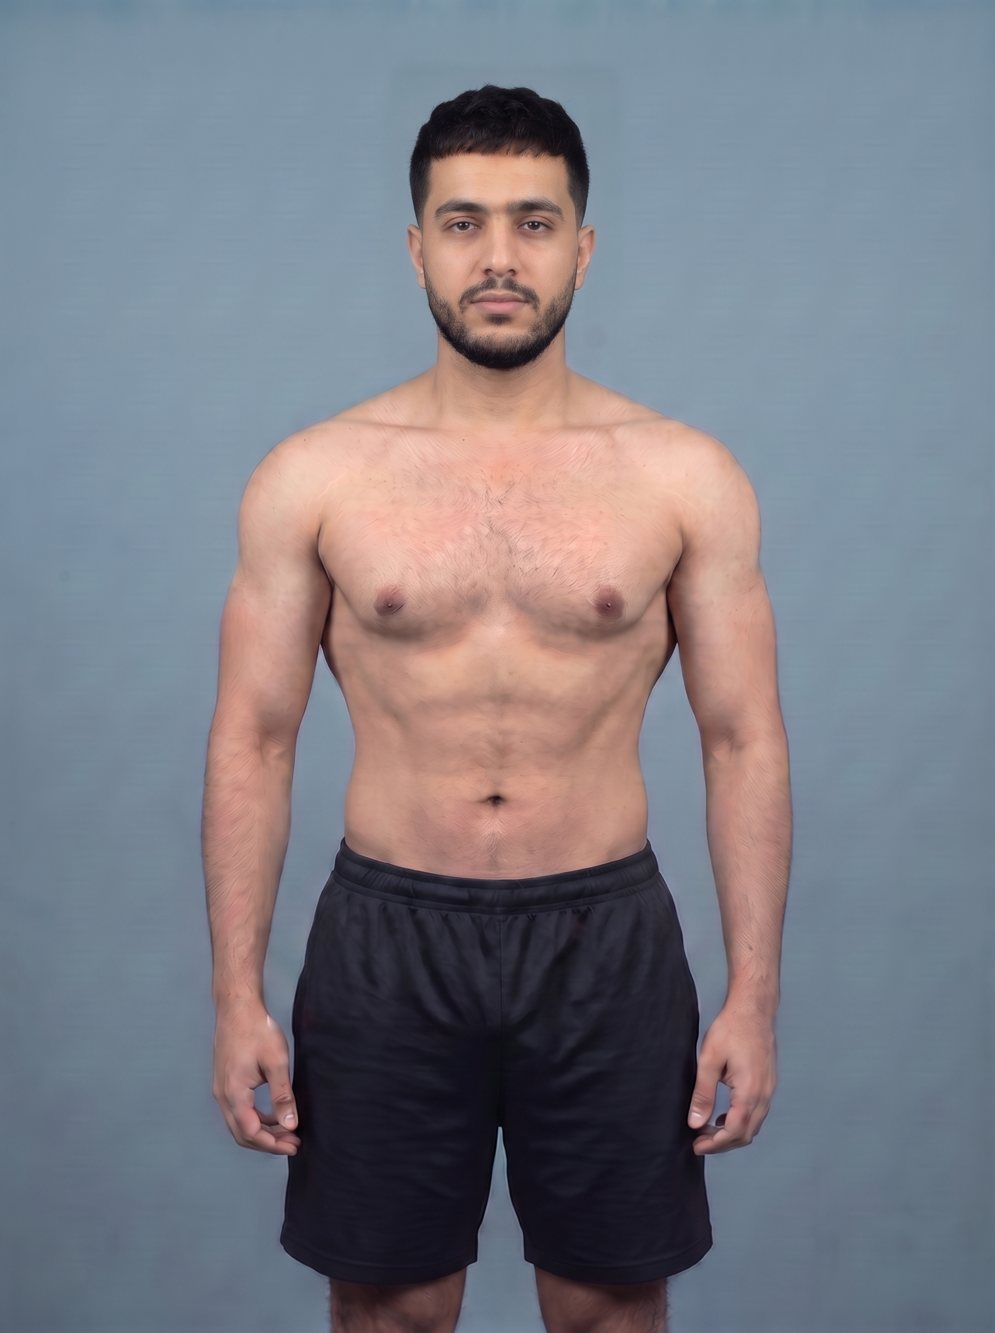
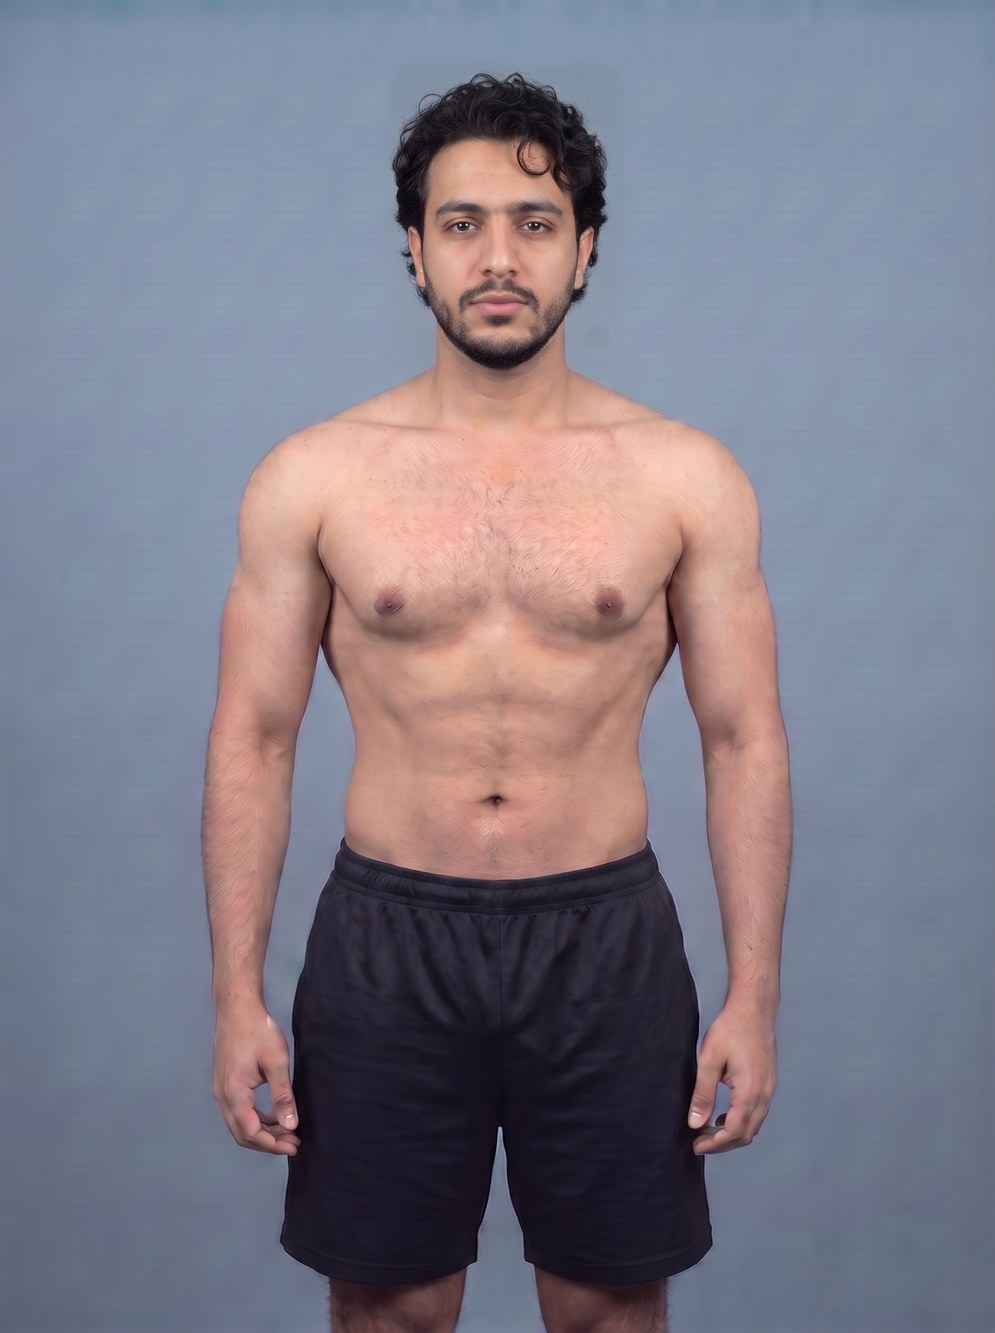
Medium curls + faded Italian beard; texture-aware fit, reviewer pick
- Library: 'Medium curls · subtle taper' and 'Faded Italian beard'
- rankHair: bonus for cuts built around the person's natural texture,
  penalty for cuts that need blow-drying; rebalanced side vs fringe weights
- Scan.stylePick lets the reviewer choose among close-scoring styles;
  plan text says when a pick is the reviewer's
- Sample after (face + body) regenerated from the original baseline;
  realism check passes (jaw -1.0%, nose -2.4%, eyes -1.6%)

Claude-Session: https://claude.ai/code/session_01YK5LfND9fHzJNnxfHhhsd1

Changed region(s): [[0.3739, 0.0308, 0.6231, 0.2768]]

diff --git a/app/src/lib/styles.ts b/app/src/lib/styles.ts
@@ -55,6 +55,8 @@ export interface HairStyle {
   prompt: string; // image-model description (no identity changes)
   /** visual effect on face proportions, -1..1 */
   fx: { height: number; sides: number; fringe: number };
+  /** natural textures this cut is built around (no daily blow-drying to fight it) */
+  worksWith: HairType[];
 }
 
 export const HAIRSTYLES: HairStyle[] = [
@@ -71,7 +73,8 @@ export const HAIRSTYLES: HairStyle[] = [
     barber: "Low taper, softly blended (no harsh skin line). 4–5 cm on top, point-cut for choppy texture, short textured fringe. Matte clay.",
     prompt:
       "2026 textured crop with a soft low taper fade: sides softly blended (no harsh skin line), 4-5 cm of choppy, piece-y matte texture on top pushed slightly forward into a short, uneven textured fringe, natural matte clay finish, no shine, no tall quiff",
-    fx: { height: 0, sides: 0.3, fringe: 0.7 }
+    fx: { height: 0, sides: 0.3, fringe: 0.7 },
+    worksWith: ["straight", "wavy"]
   },
   {
     id: "french-crop-mid-taper",
@@ -86,7 +89,8 @@ export const HAIRSTYLES: HairStyle[] = [
     barber: "Soft mid taper, 3–4 cm on top brushed forward, short blunt-textured fringe.",
     prompt:
       "2026 French crop with a soft mid taper: sides softly blended, short textured top 3-4 cm brushed forward into a short blunt-textured fringe, matte natural finish",
-    fx: { height: -0.3, sides: 0.1, fringe: 1 }
+    fx: { height: -0.3, sides: 0.1, fringe: 1 },
+    worksWith: ["straight"]
   },
   {
     id: "curly-crop-taper",
@@ -100,7 +104,24 @@ export const HAIRSTYLES: HairStyle[] = [
     maintenanceWeeks: 3,
     barber: "Low or mid taper, keep 5–7 cm of curl on top, shape the curls round, light fringe.",
     prompt: "2026 curly crop: low taper fade, defined natural curls 5-7 cm on top shaped round with a light curly fringe, curl cream, matte",
-    fx: { height: 0.4, sides: 0.2, fringe: 0.5 }
+    fx: { height: 0.4, sides: 0.2, fringe: 0.5 },
+    worksWith: ["curly", "coily"]
+  },
+  {
+    id: "medium-curls-subtle-taper",
+    name: "Medium curls · subtle taper",
+    status: "trending",
+    gender: "male",
+    hairTypes: ["wavy", "curly"],
+    faceShapes: ["Oval", "Oblong", "Diamond", "Heart", "Square"],
+    topCm: [7, 10],
+    heatFriendly: false,
+    maintenanceWeeks: 5,
+    barber: "Keep 7–9 cm of curl on top, scissor-cut sides left with some length over the ears, only a subtle low taper at the sideburns and nape (no skin). Cut curls dry, curl cream, no gel.",
+    prompt:
+      "medium-length slightly curly hair: about 7-9 cm on top of loose, soft natural curls and waves with real volume and movement, swept loosely back and to the side with a few curls falling onto the upper forehead, natural matte finish, not slick; sides kept fuller with only a subtle low taper at the sideburns and the neckline (no skin, no visible fade line), slightly longer over the ears",
+    fx: { height: 0.2, sides: 0.7, fringe: 0.5 },
+    worksWith: ["wavy", "curly"]
   },
   {
     id: "middle-part-flow",
@@ -114,7 +135,8 @@ export const HAIRSTYLES: HairStyle[] = [
     maintenanceWeeks: 6,
     barber: "Grow to 10–15 cm, soft middle part, light layers, scissor-cut sides tucked behind the ears.",
     prompt: "2026 middle-part flow: 10-15 cm of soft layered hair parted in the middle, falling as curtains to the temples, sides tucked behind the ears, natural texture, matte",
-    fx: { height: -0.2, sides: 0.8, fringe: 0.4 }
+    fx: { height: -0.2, sides: 0.8, fringe: 0.4 },
+    worksWith: ["straight", "wavy"]
   },
   {
     id: "buzz-cut-soft-fade",
@@ -128,7 +150,8 @@ export const HAIRSTYLES: HairStyle[] = [
     maintenanceWeeks: 2,
     barber: "Guard #2–3 on top, soft fade to #1 on the sides, shaped hairline.",
     prompt: "2026 buzz cut: even #3 guard length on top with a soft blended fade on the sides, natural hairline",
-    fx: { height: -0.5, sides: -0.6, fringe: 0 }
+    fx: { height: -0.5, sides: -0.6, fringe: 0 },
+    worksWith: ["straight", "wavy", "curly", "coily"]
   },
   {
     id: "messy-quiff",
@@ -142,7 +165,8 @@ export const HAIRSTYLES: HairStyle[] = [
     maintenanceWeeks: 4,
     barber: "Low taper, 6–8 cm on top, textured — styled up loosely, not slick.",
     prompt: "soft messy quiff: low taper, 6-8 cm textured top lifted loosely at the front, matte, not slick or glossy",
-    fx: { height: 0.8, sides: -0.2, fringe: -0.5 }
+    fx: { height: 0.8, sides: -0.2, fringe: -0.5 },
+    worksWith: ["straight", "wavy"]
   },
   {
     id: "glossy-pompadour",
@@ -156,7 +180,8 @@ export const HAIRSTYLES: HairStyle[] = [
     maintenanceWeeks: 4,
     barber: "—",
     prompt: "",
-    fx: { height: 1, sides: -0.4, fringe: -1 }
+    fx: { height: 1, sides: -0.4, fringe: -1 },
+    worksWith: ["straight"]
   },
 ];
 
@@ -171,6 +196,14 @@ export interface BeardStyle {
 }
 
 export const BEARDS: BeardStyle[] = [
+  {
+    id: "faded-italian",
+    name: "Faded Italian beard",
+    status: "trending",
+    needsDensity: "medium",
+    prompt: "Italian-style faded beard: short full beard about 6-10 mm, dense on the chin, moustache and along the jaw, cheeks kept low and natural, fading down shorter into the sideburns so it blends into the hair, connected moustache, clean neckline one finger above the Adam's apple",
+    fx: { chin: 0, sides: 0.3, jaw: 0.9, chinWidth: 0.4 },
+  },
   {
     id: "chin-forward-boxed",
     name: "Boxed beard · longer chin",
@@ -272,8 +305,8 @@ export function rankHair(intake: Intake, face: FaceResult | null): Ranked<HairSt
       if (n) {
         // wide face → height lengthens, side volume widens; long face → the reverse
         const h = s.fx.height * n.width * 10;
-        const sd = -s.fx.sides * n.width * 8;
-        const fr = s.fx.fringe * (Math.max(0, n.foreheadWide) + Math.max(0, -n.width)) * 7;
+        const sd = -s.fx.sides * n.width * 10;
+        const fr = s.fx.fringe * (Math.max(0, n.foreheadWide) + Math.max(0, -n.width)) * 5;
         fit += h + sd + fr;
         if (h > 3) reasons.push(s.fx.height > 0 ? "height on top lengthens a wider face" : "staying low on top avoids lengthening a long face");
         if (h < -3) reasons.push(s.fx.height > 0 ? "adds height, which would lengthen an already long face" : "no height on top, so a wide face can read wider");
@@ -281,6 +314,14 @@ export function rankHair(intake: Intake, face: FaceResult | null): Ranked<HairSt
         if (sd < -3) reasons.push(s.fx.sides > 0 ? "side volume would widen a wide face" : "very tight sides narrow an already narrow face");
         if (fr > 3) reasons.push(n.foreheadWide > 0.5 ? "a forward fringe balances a wider forehead and shortens the face visually" : "a forward fringe shortens the face visually");
         if (fr < -3) reasons.push("swept-back styles expose and lengthen the forehead");
+      }
+      // working with natural texture: the cut holds in heat/humidity without daily heat styling
+      if (s.worksWith.includes(intake.hairType)) {
+        fit += 5;
+        if (intake.hairType !== "straight") reasons.push(`built around your natural ${intake.hairType === "wavy" ? "wave" : "curl"} — no daily blow-drying`);
+      } else {
+        fit -= 3;
+        reasons.push(`needs blow-drying to fight your natural ${intake.hairType === "wavy" ? "wave" : "curl"}`);
       }
       if (s.heatFriendly) fit += 4;
       if (s.status === "trending") fit += 4;
@@ -330,4 +371,11 @@ export function suggestHair(intake: Intake, face: FaceResult | null, n = 3): Hai
 
 export function suggestBeard(intake: Intake, face: FaceResult | null = null): BeardStyle | null {
   return rankBeard(intake, face)[0]?.item ?? null;
+}
+
+/** Put the reviewer's pick first (if it is in the library and allowed for this person); fit order otherwise. */
+export function withReview<T extends { id: string }>(ranked: Ranked<T>[], id?: string): { list: Ranked<T>[]; reviewed: boolean } {
+  const i = id ? ranked.findIndex((r) => r.item.id === id) : -1;
+  if (i <= 0) return { list: ranked, reviewed: i === 0 };
+  return { list: [ranked[i], ...ranked.slice(0, i), ...ranked.slice(i + 1)], reviewed: true };
 }

diff --git a/app/src/lib/plan.ts b/app/src/lib/plan.ts
@@ -1,4 +1,4 @@
-import { REVIEWED_AT, faceNeeds, rankBeard, rankHair } from "./styles";
+import { REVIEWED_AT, faceNeeds, rankBeard, rankHair, withReview } from "./styles";
 import type { Intake, Scan } from "./types";
 import type { EvidenceGrade } from "./science";
 import { MODIFIABLE, currentScores, overall, regionOf, type ScoreKey } from "./report";
@@ -455,7 +455,8 @@ export function buildPlan(scan: Scan, intake: Intake): Plan {
   });
   if (male) {
     const patchy = intake.facialHair === "patchy";
-    const [beardPick, ...beardAlts] = rankBeard(intake, face ?? null).slice(0, 3);
+    const beardRev = withReview(rankBeard(intake, face ?? null), scan.stylePick?.beard);
+    const [beardPick, ...beardAlts] = beardRev.list.slice(0, 3);
     const needs = faceNeeds(face ?? null);
     items.push({
       id: "beard",
@@ -463,7 +464,7 @@ export function buildPlan(scan: Scan, intake: Intake): Plan {
       title: beardPick ? `Beard: ${beardPick.item.name}` : patchy ? "Even heavy stubble with a defined neckline" : "Groomed heavy stubble or short beard",
       why: [
         beardPick
-          ? `Chosen for your face${needs?.notes.length ? ` (${needs.notes.join("; ")})` : ""}: ${beardPick.reasons.filter((r) => !/needs denser/.test(r)).join("; ") || "balanced proportions suit most beard shapes"}.`
+          ? `${beardRev.reviewed ? "Reviewer's pick, f" : "F"}itted to your face${needs?.notes.length ? ` (${needs.notes.join("; ")})` : ""}: ${beardPick.reasons.filter((r) => !/needs denser/.test(r)).join("; ") || "balanced proportions suit most beard shapes"}.`
           : "",
         "Groomed facial hair changes how the face reads: heavy stubble was rated most attractive and full beards most masculine in a large rating study; a clean lower line sharpens the visible jaw.",
         beardPick?.reasons.some((r) => /needs denser/.test(r)) ? "Your current growth is patchy — expect 3–6 months of growth (optionally minoxidil, discuss with a doctor) to reach full coverage." : "",
@@ -513,7 +514,8 @@ export function buildPlan(scan: Scan, intake: Intake): Plan {
   /* ------------------------------ Hair ------------------------------ */
   const reach = intake.hairLengthCm + 12;
   const shapeForHair = face && !face.capture?.closeRange ? face.faceShape : null;
-  const hairRanked = rankHair(intake, face ?? null).slice(0, 3);
+  const hairRev = withReview(rankHair(intake, face ?? null), scan.stylePick?.hair);
+  const hairRanked = hairRev.list.slice(0, 3);
   const hairPick = hairRanked[0]?.item;
   const hairAlts = hairRanked.slice(1).map((r) => r.item);
   const needs = faceNeeds(face ?? null);
@@ -522,7 +524,7 @@ export function buildPlan(scan: Scan, intake: Intake): Plan {
     id: "haircut",
     category: "Hair",
     title: hairPick ? `Haircut: ${hairPick.name}` : hairAdvice(intake, shapeForHair).title,
-    why: `${hairPick ? `The current cut (editorial library, reviewed ${REVIEWED_AT}) that best balances your face${needs?.notes.length ? ` — ${needs.notes.join("; ")}` : ""}: ${hairRanked[0].reasons.join("; ") || "your proportions are balanced, so the most versatile current cut is chosen"}${hairPick.heatFriendly ? "; practical in Gulf heat" : ""}.` : hairAdvice(intake, shapeForHair).why} Hair grows ~1 cm/month, so styles up to ~${reach} cm on top are reachable within 12 months. Evidence for specific cuts is limited — treat as grooming guidance.`,
+    why: `${hairPick ? `${hairRev.reviewed ? "Reviewer's pick among the closest-scoring cuts" : "The current cut"} (editorial library, reviewed ${REVIEWED_AT}) that balances your face${needs?.notes.length ? ` — ${needs.notes.join("; ")}` : ""}: ${hairRanked[0].reasons.join("; ") || "your proportions are balanced, so the most versatile current cut is chosen"}${hairPick.heatFriendly ? "; practical in Gulf heat" : ""}.` : hairAdvice(intake, shapeForHair).why} Hair grows ~1 cm/month, so styles up to ~${reach} cm on top are reachable within 12 months. Evidence for specific cuts is limited — treat as grooming guidance.`,
     how: hairPick
       ? [
           `Ask your barber: ${hairPick.barber}`,

diff --git a/app/src/lib/sample.ts b/app/src/lib/sample.ts
@@ -17,7 +17,7 @@ export const sampleProfile: Profile = {
   intake: data.intake as Intake,
 };
 
-export const sampleScan: Scan = { ...(data.scan as unknown as Scan), id: SAMPLE_SCAN_ID, profileId: SAMPLE_PROFILE_ID };
+export const sampleScan: Scan = { ...(data.scan as unknown as Scan), id: SAMPLE_SCAN_ID, profileId: SAMPLE_PROFILE_ID, stylePick: { hair: "medium-curls-subtle-taper", beard: "faded-italian" } };
 
 const S = `${import.meta.env.BASE_URL}sample/`;
 
@@ -31,5 +31,5 @@ export const sampleVisuals: Visuals = {
   baseline: S + "face.jpg",
   after: S + "face_after.jpg",
   body: { front: S + "body_front.jpg", side: S + "body_side.jpg", afterFront: S + "body_after_front.jpg", afterSide: S + "body_after_side.jpg" },
-  styles: [{ name: "French crop · soft mid taper · short boxed beard (best fit)", front: S + "face_after.jpg" }],
+  styles: [{ name: "Medium curls · subtle taper · faded Italian beard", front: S + "face_after.jpg" }],
 };

diff --git a/app/src/lib/types.ts b/app/src/lib/types.ts
@@ -195,6 +195,8 @@ export interface Scan {
   hasBodyPhoto: boolean;
   bodySide?: SideResult | null;
   hasSidePhoto?: boolean;
+  /** founder/reviewer's pick among close-scoring styles (library ids) */
+  stylePick?: { hair?: string; beard?: string };
 }
 
 /** Generated images for a scan (baseline "model", end-of-plan "after", style previews). */
